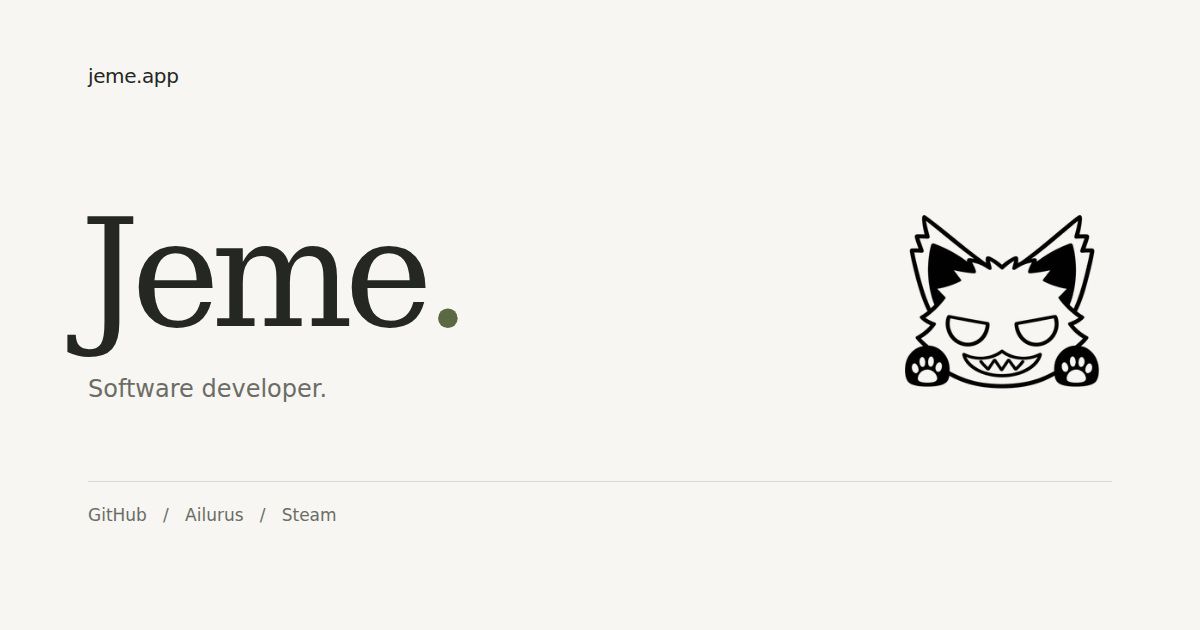
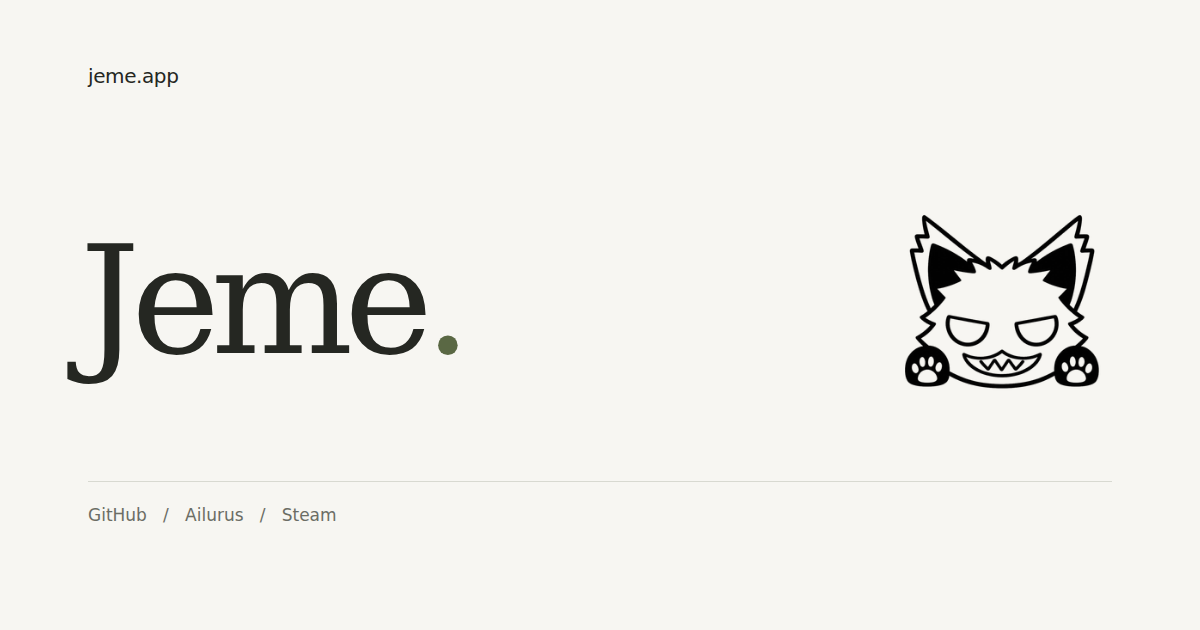
Improvements

Changed region(s): [[0.0308, 0.3317, 0.4008, 0.6333]]

diff --git a/index.html b/index.html
@@ -3,8 +3,8 @@
 <head>
   <meta charset="utf-8">
   <meta name="viewport" content="width=device-width, initial-scale=1, viewport-fit=cover">
-  <title>Jeme — Software developer</title>
-  <meta name="description" content="Jeme, software developer. Find me on GitHub, Ailurus, and Steam.">
+  <title>Jeme</title>
+  <meta name="description" content="Find me on GitHub, Ailurus, and Steam.">
   <meta name="author" content="Jeme">
   <meta name="color-scheme" content="light dark">
   <meta name="theme-color" content="#f7f6f2" media="(prefers-color-scheme: light)">
@@ -13,19 +13,19 @@
   <meta property="og:type" content="website">
   <meta property="og:site_name" content="Jeme">
   <meta property="og:locale" content="en_US">
-  <meta property="og:title" content="Jeme — Software developer">
+  <meta property="og:title" content="Jeme">
   <meta property="og:description" content="Find me on GitHub, Ailurus, and Steam.">
   <meta property="og:url" content="https://jeme.app/">
   <meta property="og:image" content="https://jeme.app/assets/social.png">
   <meta property="og:image:type" content="image/png">
   <meta property="og:image:width" content="1200">
   <meta property="og:image:height" content="630">
-  <meta property="og:image:alt" content="Jeme — Software developer, with the Miumau cat avatar.">
+  <meta property="og:image:alt" content="Jeme with em.">
   <meta name="twitter:card" content="summary_large_image">
-  <meta name="twitter:title" content="Jeme — Software developer">
+  <meta name="twitter:title" content="Jeme">
   <meta name="twitter:description" content="Find me on GitHub, Ailurus, and Steam.">
   <meta name="twitter:image" content="https://jeme.app/assets/social.png">
-  <meta name="twitter:image:alt" content="Jeme — Software developer, with the Miumau cat avatar.">
+  <meta name="twitter:image:alt" content="Jeme with em.">
   <meta name="twitter:creator" content="@TheJeme">
   <meta name="mobile-web-app-capable" content="yes">
   <meta name="apple-mobile-web-app-capable" content="yes">
@@ -58,7 +58,6 @@
       <section class="profile" aria-labelledby="name">
         <div class="introduction">
           <h1 id="name">Jeme<span class="period">.</span></h1>
-          <p>Software developer.</p>
         </div>
         <picture class="avatar">
           <source srcset="/assets/avatar-white.webp" media="(prefers-color-scheme: dark)">

diff --git a/style.css b/style.css
@@ -36,7 +36,7 @@ body { margin: 0; }
 main { padding-block: 88px 96px; margin-block: auto; }
 .profile { display: flex; justify-content: space-between; align-items: center; gap: 32px; }
 h1 {
-  margin: 0 0 18px -5px;
+  margin: 0 0 0 -5px;
   font-family: "Iowan Old Style", "Palatino Linotype", "Book Antiqua", Palatino, Georgia, serif;
   font-size: clamp(76px, 11vw, 108px);
   font-weight: 400;
@@ -44,7 +44,6 @@ h1 {
   letter-spacing: -.065em;
 }
 .period { color: var(--accent); }
-.introduction p { margin: 0; font-size: 16px; line-height: 1.5; color: var(--muted); }
 .avatar { display: block; flex: 0 0 128px; }
 .avatar img { display: block; width: 100%; height: auto; }
 .links { margin-top: 64px; }
@@ -77,7 +76,6 @@ a:focus-visible { outline: 2px solid var(--accent); outline-offset: 5px; border-
   .profile { gap: 20px; }
   .avatar { flex-basis: 88px; }
   h1 { font-size: 76px; margin-left: -3px; }
-  .introduction p { font-size: 14px; }
   .links { margin-top: 48px; }
   a { min-height: 78px; }
   .link-name { font-size: 20px; }

diff --git a/sw.js b/sw.js
@@ -1,4 +1,4 @@
-const CACHE = 'jeme-v2';
+const CACHE = 'jeme-v3';
 const SHELL = ['/', '/index.html', '/style.css', '/script.js', '/site.webmanifest',
   '/assets/avatar-black.webp', '/assets/avatar-white.webp', '/assets/favicon.png',
   '/assets/apple-touch-icon.png', '/assets/icon-192.png', '/assets/icon-512.png',
